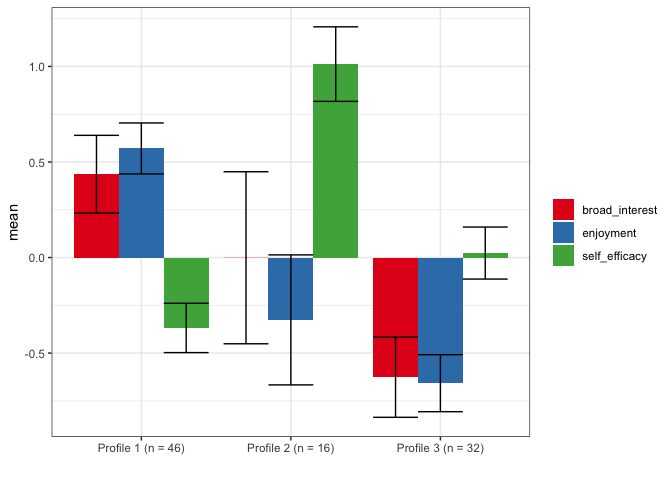
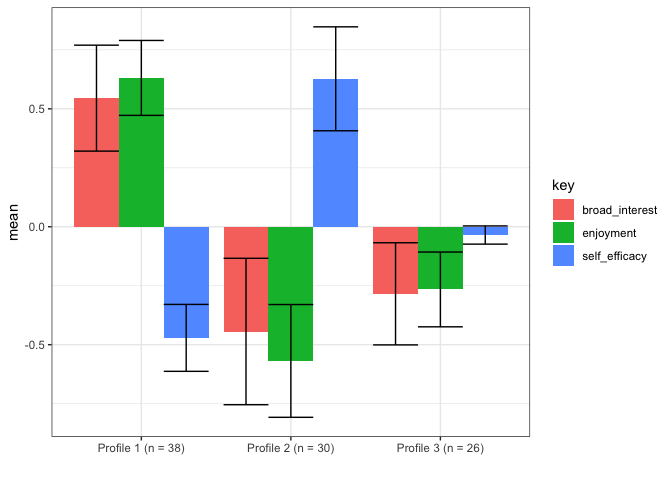
add AWE and npar as additional statistics

diff --git a/README.md b/README.md
@@ -1,8 +1,6 @@
 
 <!-- README.md is generated from README.Rmd. Please edit that file -->
-[![Build Status](https://travis-ci.org/jrosen48/tidyLPA.svg?branch=master)](https://travis-ci.org/jrosen48/tidyLPA)
-
-[![Badge](https://cranlogs.r-pkg.org/badges/tidyLPA)](https://cran.r-project.org/package=tidyLPA)
+[![Build Status](https://travis-ci.org/jrosen48/tidyLPA.svg?branch=master)](https://travis-ci.org/jrosen48/tidyLPA) [![](https://cranlogs.r-pkg.org/badges/tidylpa)](https://cran.r-project.org/package=tidylpa)
 
 Background
 ----------
@@ -45,23 +43,23 @@ estimate_profiles(d,
                   broad_interest, enjoyment, self_efficacy, 
                   n_profiles = 3, 
                   model = 2)
-#> Fit varying means, equal variances and covariances (Model 2) model with 3 profiles.
-#> LogLik is 279.692
-#> BIC is 636.62
-#> Entropy is 0.798
+#> Fit varying means and variances, covariances fixed to 0 (Model 3) model with 3 profiles.
+#> LogLik is 278.715
+#> BIC is 648.296
+#> Entropy is 0.84
 #> # A tibble: 94 x 5
 #>    broad_interest enjoyment self_efficacy profile posterior_prob
 #>             <dbl>     <dbl>         <dbl> <fct>            <dbl>
-#>  1            3.8       4            1    1                0.976
-#>  2            3         3            2.75 2                0.847
-#>  3            1.8       2.8          3.38 2                0.982
-#>  4            1.4       1            2.75 3                0.963
-#>  5            1.8       2.2          2    3                0.824
-#>  6            1.6       1.6          1.88 3                0.960
-#>  7            3         3.8          2.25 1                0.847
-#>  8            2.6       2.2          2    3                0.704
-#>  9            1         2.8          2.62 3                0.584
-#> 10            2.2       2            1.75 3                0.861
+#>  1            3.8       4            1    1                0.999
+#>  2            3         3            2.75 2                0.707
+#>  3            1.8       2.8          3.38 2                0.999
+#>  4            1.4       1            2.75 2                1    
+#>  5            1.8       2.2          2    3                0.882
+#>  6            1.6       1.6          1.88 2                0.555
+#>  7            3         3.8          2.25 1                0.951
+#>  8            2.6       2.2          2    3                0.898
+#>  9            1         2.8          2.62 2                0.996
+#> 10            2.2       2            1.75 2                0.517
 #> # ... with 84 more rows
 ```
 
@@ -79,15 +77,25 @@ Two additional models can be fit using functions that provide an interface to th
 We can plot the profiles with by *piping* (using the `%>%` operator, loaded from the `dplyr` package) the output to `plot_profiles()`.
 
 ``` r
+library(dplyr)
+#> 
+#> Attaching package: 'dplyr'
+#> The following objects are masked from 'package:stats':
+#> 
+#>     filter, lag
+#> The following objects are masked from 'package:base':
+#> 
+#>     intersect, setdiff, setequal, union
+
 estimate_profiles(d, 
                   broad_interest, enjoyment, self_efficacy, 
                   n_profiles = 3, 
                   model = 2) %>% 
     plot_profiles(to_center = TRUE)
-#> Fit varying means, equal variances and covariances (Model 2) model with 3 profiles.
-#> LogLik is 279.692
-#> BIC is 636.62
-#> Entropy is 0.798
+#> Fit varying means and variances, covariances fixed to 0 (Model 3) model with 3 profiles.
+#> LogLik is 278.715
+#> BIC is 648.296
+#> Entropy is 0.84
 ```
 
 ![](man/figures/README-unnamed-chunk-5-1.png)

diff --git a/NEWS.md b/NEWS.md
@@ -12,7 +12,11 @@
 * add tidylpa@googlegroups.com mailing list address to README as preferred contact method 
 * remove deprecated function (to extract key statistics from an MPlus model)
 * make it so that a data frame with fit and other statistics is returned by default from compare_solutions_mplus()
-* added two new values to the statistics returned by compare_solutions_mplus(), a) the cell size (the number of observations associated with each profile) and b) the number of times the log-likelihood was replicated, based on the number of optimization steps
+* added new values to the statistics returned by compare_solutions_mplus():
+    - the cell size (the number of observations associated with each profile)
+    - the number of times the log-likelihood was replicated, based on the number of optimization steps
+    - Approximate Weight of Evidence (AWE) criterion
+    - the number of parameters estimated
 * remove the messages about the software being in beta
 
 ## Bug fixes
